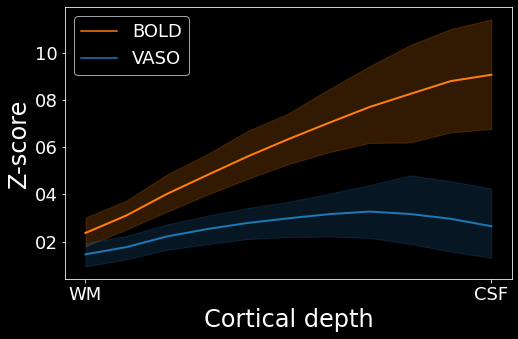
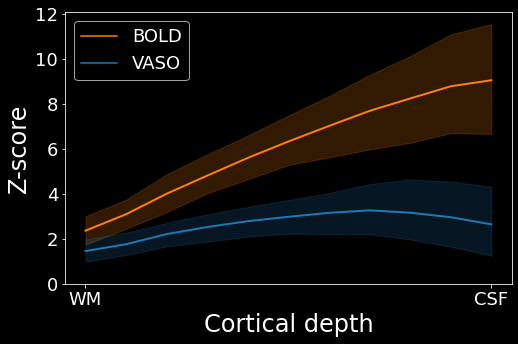
update plotting

diff --git a/code/plotting.py b/code/plotting.py
@@ -153,7 +153,7 @@ data = pd.read_csv('../results/blockTimecourseResults.csv')
 
 fig, ax = plt.subplots(figsize=FS)
 
-sns.lineplot(ax=ax, data=data.loc[(data['focus']==focus)], x='x', y='data', hue='modality', palette = palette,linewidth=LW)
+sns.lineplot(ax=ax, data=data.loc[(data['focus']=='v1')], x='x', y='data', hue='modality', palette = palette,linewidth=LW)
 
 
 ax.axvspan(4, 4+(30/TR), color='grey', alpha=0.2, lw=0)
@@ -161,7 +161,7 @@ ax.set_ylabel('Signal change [%]', fontsize=labelSize)
 ax.set_xlabel('Time [s]', fontsize=labelSize)
 ax.legend(loc='lower center', fontsize=tickLabelSize)
 
-values = (np.arange(-4,len(data['x'].unique())-4,4)*TR).round().astype(int)
+values = (np.arange(-4,len(data['x'].unique())-4,4)*TR).round(decimals=1)
 spacing = np.arange(0,len(data['x'].unique()),4)
 ax.set_xticks(spacing,values, fontsize=tickLabelSize)
 
@@ -182,7 +182,7 @@ zscores = pd.read_csv('../results/blocksVsEventsData.csv')
 # long TR block stimulation for fair comparisons
 tmp = zscores.loc[
     (zscores['runType']=='blockStim')
-    & (zscores['focus']==focus)
+    & (zscores['focus']=='v1')
     & (zscores['contrast']=='visiotactile')
     & (zscores['stimType']!='blockStimLongTR')
     ]
@@ -221,15 +221,16 @@ ax.set_xticks([1,11],['WM', 'CSF'],
 # Remove ticks for x-axis
 # plt.xticks([])
 
-
-plt.yticks(fontsize = tickLabelSize)
+ticks = np.arange(0,19,3)
+plt.yticks(ticks,fontsize = tickLabelSize)
 
 plt.legend(loc = 'upper left',
     fontsize = legendTextSize
     )
 
-current_values = plt.gca().get_yticks()
-plt.gca().set_yticklabels(['{:02d}'.format(int(x)) for x in current_values])
+# current_values = plt.gca().get_yticks()
+# plt.gca().set_yticklabels(['{:02d}'.format(x) for x in current_values])
+
 
 plt.savefig(f'../results/Group_v1_blockProfiles.png',
     bbox_inches = 'tight')
@@ -307,7 +308,7 @@ zscores = pd.read_csv('../results/blocksVsEventsData.csv')
 # long TR block stimulation for fair comparisons
 tmp = zscores.loc[
     (zscores['runType']=='eventStim')
-    & (zscores['focus']==focus)
+    & (zscores['focus']=='v1')
     & (zscores['contrast']=='visiotactile')
     & (zscores['stimType']!='blockStimLongTR')
     ]
@@ -346,15 +347,13 @@ ax.set_xticks([1,11],['WM', 'CSF'],
 # Remove ticks for x-axis
 # plt.xticks([])
 
-
-plt.yticks(fontsize = tickLabelSize)
+ticks = np.arange(0,13,2)
+plt.yticks(ticks,fontsize = tickLabelSize)
 
 plt.legend(loc = 'upper left',
     fontsize = legendTextSize
     )
 
-current_values = plt.gca().get_yticks()
-plt.gca().set_yticklabels(['{:02d}'.format(int(x)) for x in current_values])
 
 plt.savefig(f'../results/Group_v1_eventProfiles.png',
     bbox_inches = 'tight')
@@ -390,7 +389,7 @@ for modality, cmap in zip(['VASO', 'BOLD'], palettes):
     # long TR block stimulation for fair comparisons
     tmp = zscores.loc[
         (zscores['modality']==modality)
-        & (zscores['focus']==focus)
+        & (zscores['focus']=='v1')
         & (zscores['contrast']=='visiotactile')
         & (zscores['stimType']!='blockStimLongTR')
         ]
@@ -426,17 +425,17 @@ for modality, cmap in zip(['VASO', 'BOLD'], palettes):
 
     # Set y-limits for modalities
     if modality == 'VASO':
-        ax.set_ylim(0,6)
+        ticks = np.arange(0,7,1)
+        plt.yticks(ticks,fontsize = tickLabelSize)
     if modality == 'BOLD':
-        ax.set_ylim(0,18)
+        ticks = np.arange(0,19,3)
+        plt.yticks(ticks,fontsize = tickLabelSize)
 
 
     plt.legend(loc = 'upper left',
         fontsize = legendTextSize
         )
 
-    current_values = plt.gca().get_yticks()
-    plt.gca().set_yticklabels(['{:02d}'.format(int(x)) for x in current_values])
 
     plt.savefig(f'../results/Group_v1_{modality}_blocksVsEvents.png',
         bbox_inches = 'tight')
@@ -614,7 +613,7 @@ ax.set_ylabel('Signal change [%]', fontsize=labelSize)
 ax.set_xlabel('Time [s]', fontsize=labelSize)
 ax.legend(loc='lower center', fontsize=tickLabelSize)
 
-values = (np.arange(-4,len(data['x'].unique())-4,4)*TR).round().astype(int)
+values = (np.arange(-4,len(data['x'].unique())-4,4)*TR).round(decimals=1)
 spacing = np.arange(0,len(data['x'].unique()),4)
 ax.set_xticks(spacing,values, fontsize=tickLabelSize)
 
@@ -674,15 +673,12 @@ ax.set_xticks([1,11],['WM', 'CSF'],
 # Remove ticks for x-axis
 # plt.xticks([])
 
-
-plt.yticks(fontsize = tickLabelSize)
+ticks = np.arange(0,11,2)
+plt.yticks(ticks, fontsize = tickLabelSize)
 
 plt.legend(loc = 'upper left',
     fontsize = legendTextSize
     )
-
-current_values = plt.gca().get_yticks()
-plt.gca().set_yticklabels(['{:02d}'.format(int(x)) for x in current_values])
 
 plt.savefig(f'../results/Group_s1_blockProfiles.png',
     bbox_inches = 'tight')
@@ -759,7 +755,7 @@ zscores = pd.read_csv('../results/blocksVsEventsData.csv')
 # Limit plotting to modality, focus and visiotactile stimulation and remove
 # long TR block stimulation for fair comparisons
 
-for focus in ['v1','s1']:
+for focus in ['s1']:
 
     tmp = zscores.loc[
         (zscores['runType']=='eventStim')
@@ -802,15 +798,13 @@ for focus in ['v1','s1']:
     # Remove ticks for x-axis
     # plt.xticks([])
 
-
-    plt.yticks(fontsize = tickLabelSize)
+    ticks = np.arange(0,11,2)
+    plt.yticks(ticks,fontsize = tickLabelSize)
 
     plt.legend(loc = 'upper left',
         fontsize = legendTextSize
         )
 
-    current_values = plt.gca().get_yticks()
-    plt.gca().set_yticklabels(['{:02d}'.format(int(x)) for x in current_values])
 
     plt.savefig(f'../results/Group_{focus}_eventProfiles.png',
         bbox_inches = 'tight')

diff --git a/code/eventRelatedRandom.py b/code/eventRelatedRandom.py
@@ -40,7 +40,7 @@ TR = 1.3
 ########## Plot event FIRs ##########
 #####################################
 
-data = pd.read_csv('../results/FIR_results.csv')
+data = pd.read_csv('../results/FIRdataRandom.csv')
 
 data = data.loc[]
 # palettesLayers = {'VASO':['#1f77b4','#7dadd9','#c9e5ff'],
